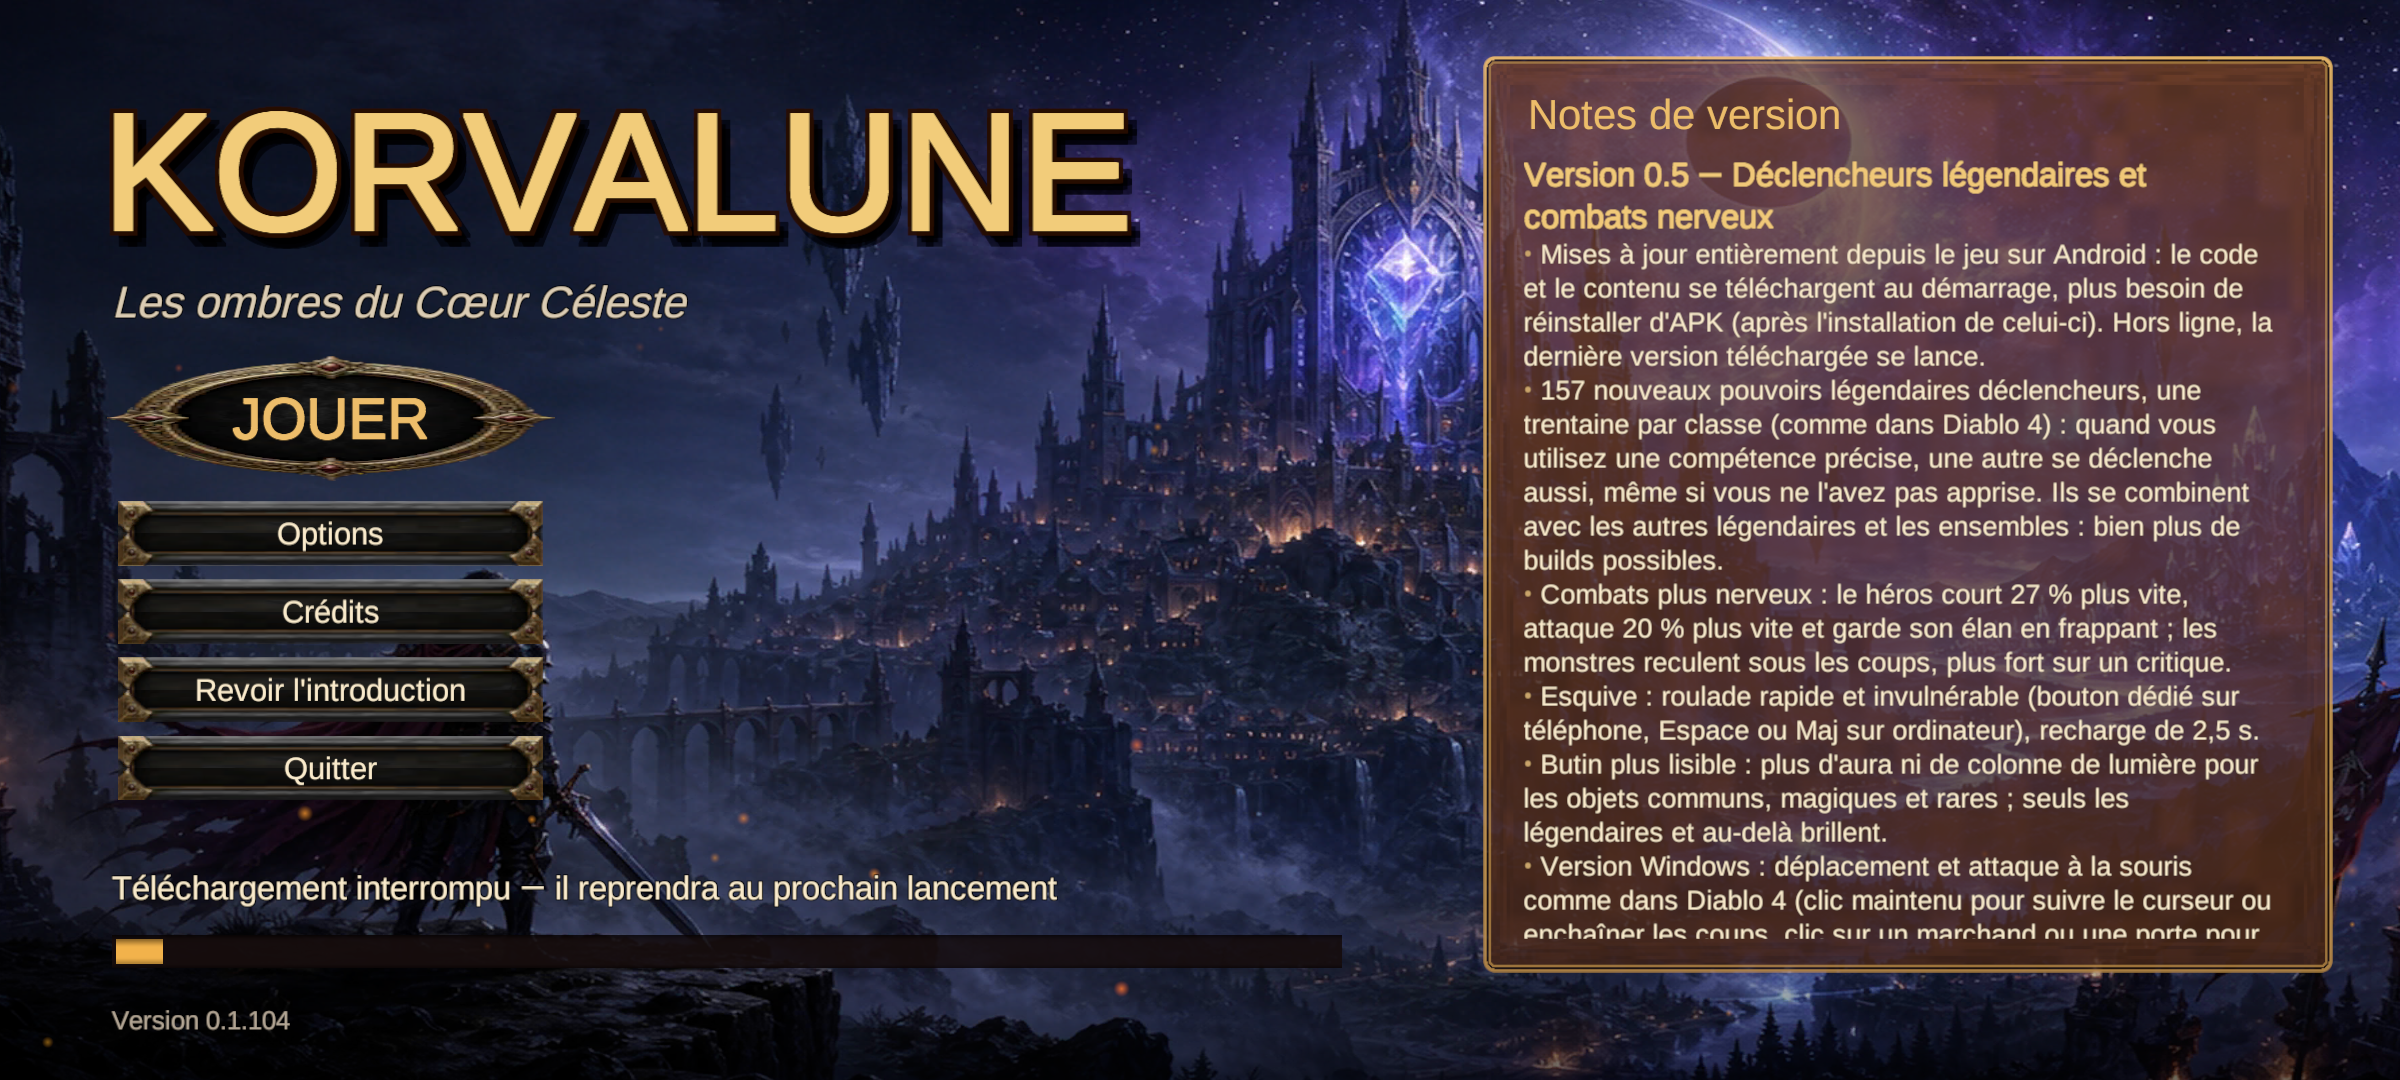
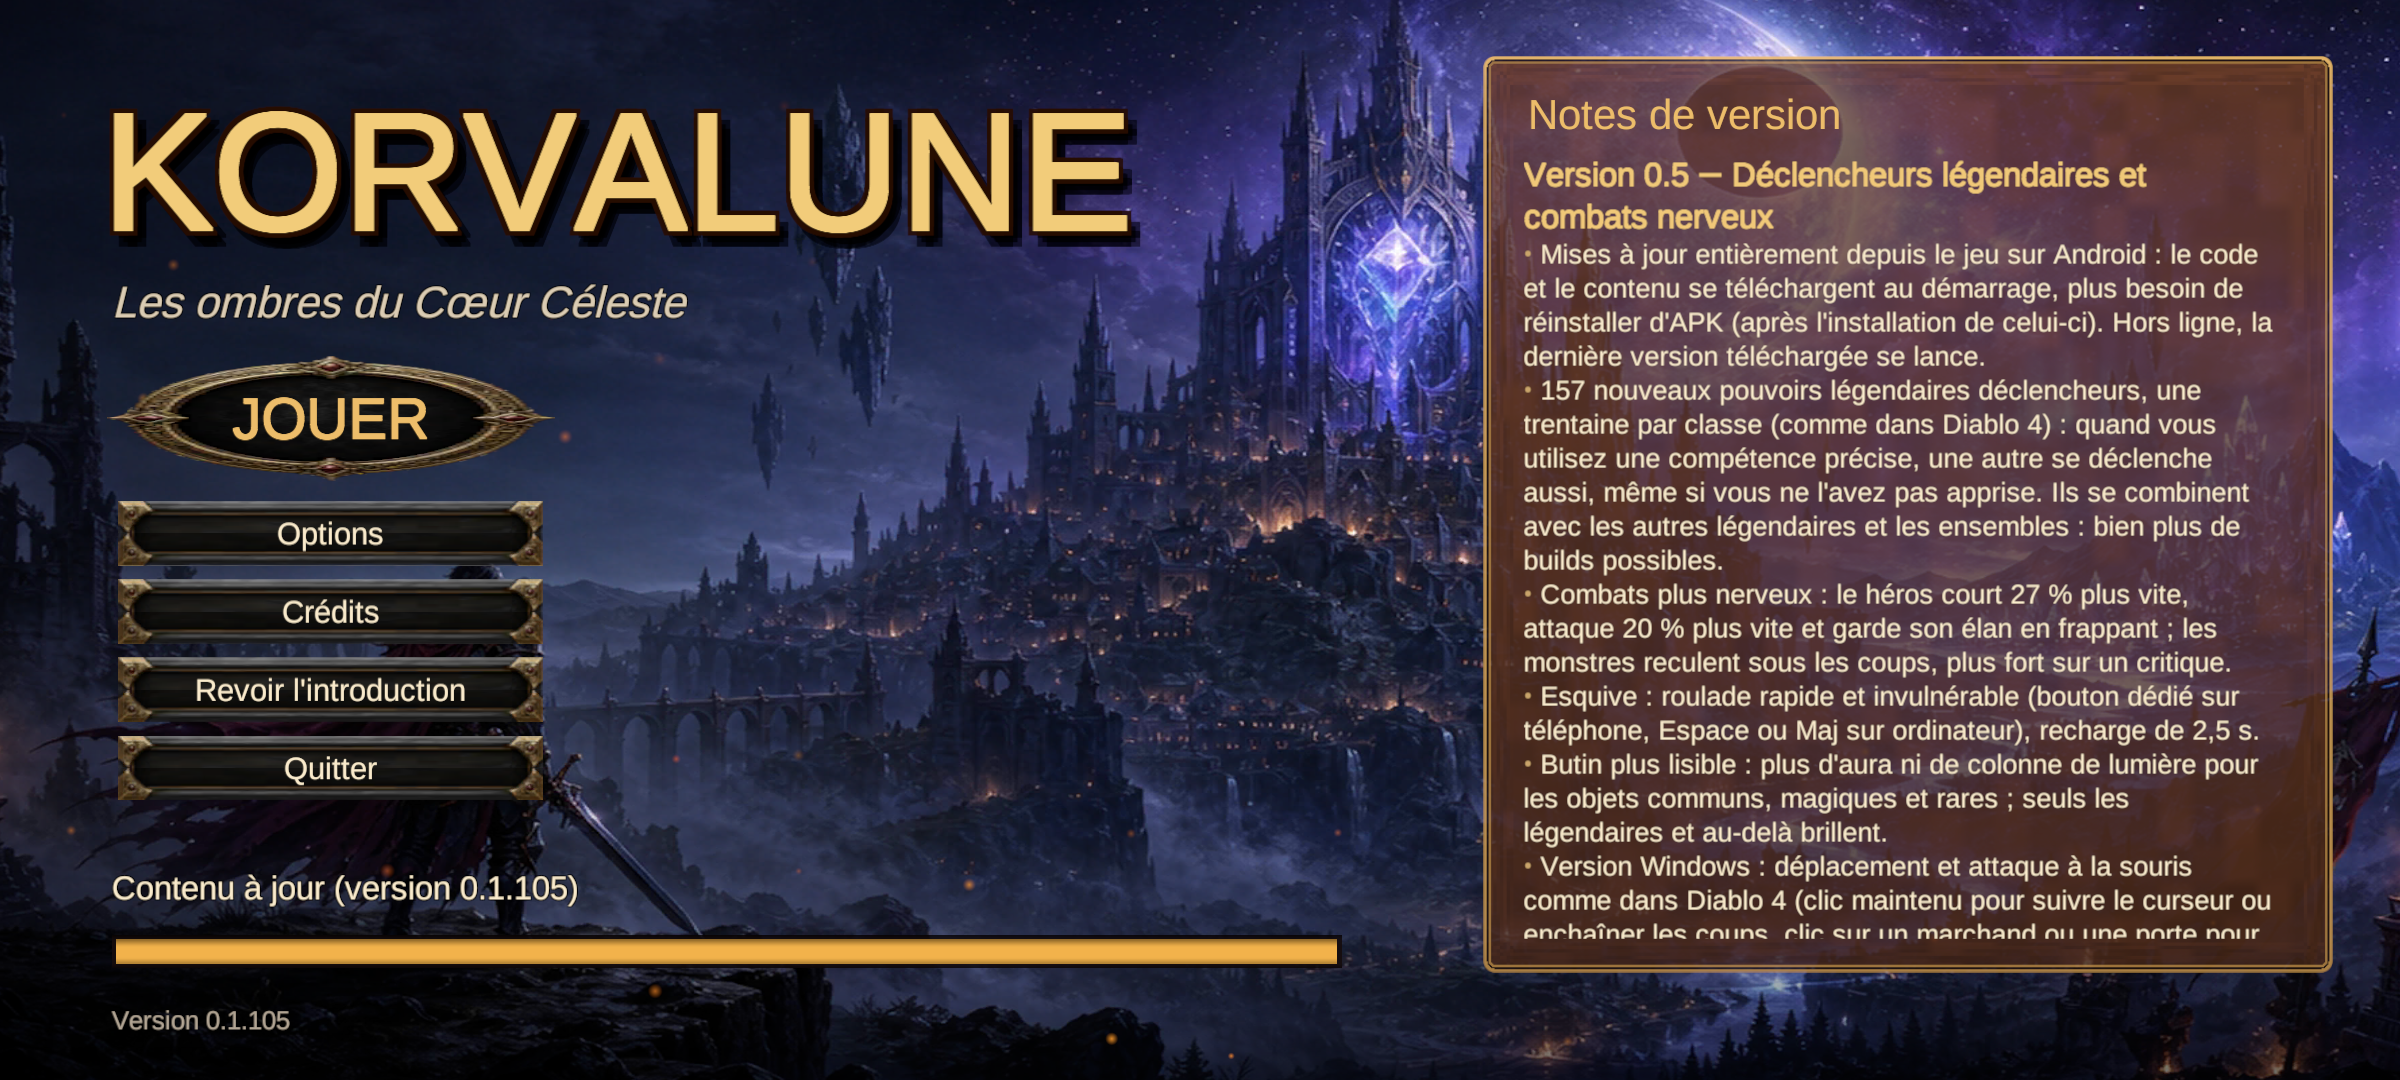
Android : APK construit et testé dans l'émulateur [skip ci]

diff --git a/ci-out/android/build.md b/ci-out/android/build.md
@@ -3,7 +3,7 @@
 - Scènes : Korvalune_Lanceur, Korvalune_Selection, CharacterCreator, Korvalune_Vallee, Korvalune_Crypte, Korvalune_Terriers, Korvalune_Eclipse, Korvalune_Breche, Korvalune_Foret, Korvalune_Desert, Korvalune_Pics, Korvalune_Cote, Korvalune_Marais, Korvalune_Toundra, Korvalune_Volcan, Korvalune_Canyon, Korvalune_Abime
 - Signature : clé Korvalune (mises à jour sans désinstaller)
 - Icône : Assets/Korvalune/Resources/UI/Icone.png
-- Contenu téléchargeable : 100 paquets, 722 Mo (release contenu-104)
+- Contenu téléchargeable : 100 paquets, 722 Mo (release contenu-105)
     - scenes : 146.4 Mo
     - art_catalog_models : 58.3 Mo
     - art_catalog_skins : 34.6 Mo
@@ -16,10 +16,10 @@
     - art_heroes_kaeldraven_f : 17.2 Mo
     - art_heroes_kaeldraven_m : 16.7 Mo
     - art_heroes_tharion_f : 16.7 Mo
-- HybridCLR : génération en 2.0 min
+- HybridCLR : génération en 1.8 min
 - Code mis à jour depuis le jeu : Korvalune.Runtime 664 Ko + 7 métadonnées (9.0 Mo), APK minimal 0
-- Résultat : **Succeeded** en 21.6 min, 0 erreur(s), 12 avertissement(s)
-- APK : 129.1 Mo, version 0.1.104
+- Résultat : **Succeeded** en 21.0 min, 0 erreur(s), 12 avertissement(s)
+- APK : 129.1 Mo, version 0.1.105
 
 ## Contenu empaqueté : 35 Mo
 - Texture2D : 23.0 Mo (295)
@@ -69,46 +69,46 @@
 
 ## Mémoire pendant la construction (dernières mesures)
 ```
-08:42:27 ram 6620/15983 swap 112/16383  4781304 Unity 477872 Unity.ILPP.Runn 
-08:42:32 ram 6616/15983 swap 112/16383  4781304 Unity 479368 Unity.ILPP.Runn 
-08:42:37 ram 6641/15983 swap 112/16383  4781304 Unity 480240 Unity.ILPP.Runn 
-08:42:42 ram 6875/15983 swap 112/16383  4781304 Unity 1124132 ld.lld 
-08:42:47 ram 7277/15983 swap 112/16383  4780956 Unity 2876756 ld.lld 
-08:42:52 ram 6722/15983 swap 132/16383  4780440 Unity 1733436 ld.lld 
-08:42:57 ram 6787/15983 swap 629/16383  4448244 Unity 1889776 ld.lld 
-08:43:02 ram 5772/15983 swap 1121/16383  4037260 Unity 2145052 ld.lld 
-08:43:07 ram 5554/15983 swap 1299/16383  3855460 Unity 2675464 ld.lld 
-08:43:13 ram 4631/15983 swap 1811/16383  3346828 Unity 340616 Unity.ILPP.Runn 
-08:43:18 ram 3986/15983 swap 2387/16383  2750116 Unity 345596 Unity.ILPP.Runn 
-08:43:23 ram 3544/15983 swap 2872/16383  2261168 Unity 347256 Unity.ILPP.Runn 
-08:43:28 ram 3250/15983 swap 3070/16383  2062992 Unity 349224 Unity.ILPP.Runn 
-08:43:33 ram 3566/15983 swap 3064/16383  2082632 Unity 349288 Unity.ILPP.Runn 
-08:43:38 ram 3681/15983 swap 3064/16383  2082808 Unity 349380 Unity.ILPP.Runn 
-08:43:43 ram 3693/15983 swap 3064/16383  2082948 Unity 351492 Unity.ILPP.Runn 
-08:43:48 ram 3695/15983 swap 3314/16383  1836224 Unity 562188 java 
-08:43:53 ram 3402/15983 swap 3589/16383  1554208 Unity 589380 java 
-08:43:58 ram 3534/15983 swap 3669/16383  1466436 Unity 813652 java 
-08:44:03 ram 3554/15983 swap 4167/16383  1071652 java 1064988 Unity 
-08:44:08 ram 3246/15983 swap 4387/16383  1107036 java 839192 Unity 
-08:44:13 ram 3162/15983 swap 4504/16383  1164432 java 735832 Unity 
-08:44:18 ram 3087/15983 swap 4612/16383  1232100 java 693996 Unity 
-08:44:23 ram 3077/15983 swap 4612/16383  1252168 java 694288 Unity 
-08:44:28 ram 3176/15983 swap 4645/16383  1420164 java 671508 Unity 
-08:44:33 ram 3401/15983 swap 4645/16383  1434548 java 671664 Unity 
-08:44:38 ram 3404/15983 swap 4645/16383  1469244 java 671832 Unity 
-08:44:43 ram 3277/15983 swap 4645/16383  1474284 java 671800 Unity 
-08:44:48 ram 3330/15983 swap 4645/16383  1534992 java 671984 Unity 
-08:44:54 ram 3474/15983 swap 4662/16383  1655188 java 671764 Unity 
-08:44:59 ram 3601/15983 swap 4666/16383  1789268 java 671752 Unity 
-08:45:04 ram 3474/15983 swap 4673/16383  1681428 java 677732 Unity 
-08:45:09 ram 3595/15983 swap 4531/16383  1681428 java 849256 Unity 
-08:45:14 ram 3790/15983 swap 4471/16383  1681428 java 975088 Unity 
-08:45:19 ram 3947/15983 swap 4476/16383  1681428 java 1142720 Unity 
-08:45:24 ram 4066/15983 swap 4476/16383  1681428 java 1283380 Unity 
-08:45:29 ram 2421/15983 swap 3974/16383  1294308 Unity 130512 provjobd1894936 
-08:45:34 ram 2372/15983 swap 3896/16383  1305124 Unity 130512 provjobd1894936 
-08:45:39 ram 1151/15983 swap 154/16383  131748 provjobd1894936 119912 MainThread 
-08:45:44 ram 1217/15983 swap 154/16383  129624 provjobd1894936 124552 Unity.Licensing 
+10:09:23 ram 6729/15983 swap 61/16383  4709752 Unity 681932 Unity.ILPP.Runn 
+10:09:28 ram 6718/15983 swap 61/16383  4709756 Unity 683396 Unity.ILPP.Runn 
+10:09:33 ram 6742/15983 swap 61/16383  4709756 Unity 683764 Unity.ILPP.Runn 
+10:09:38 ram 6856/15983 swap 61/16383  4709756 Unity 685468 Unity.ILPP.Runn 
+10:09:43 ram 6879/15983 swap 61/16383  4709756 Unity 686132 Unity.ILPP.Runn 
+10:09:48 ram 6762/15983 swap 61/16383  4709756 Unity 687460 Unity.ILPP.Runn 
+10:09:53 ram 6845/15983 swap 61/16383  4709756 Unity 688524 Unity.ILPP.Runn 
+10:09:58 ram 6939/15983 swap 61/16383  4709756 Unity 689300 Unity.ILPP.Runn 
+10:10:03 ram 6743/15983 swap 61/16383  4709760 Unity 691180 Unity.ILPP.Runn 
+10:10:08 ram 6808/15983 swap 61/16383  4709760 Unity 691980 Unity.ILPP.Runn 
+10:10:13 ram 7051/15983 swap 61/16383  4709744 Unity 693620 Unity.ILPP.Runn 
+10:10:18 ram 6717/15983 swap 61/16383  4709748 Unity 695788 Unity.ILPP.Runn 
+10:10:23 ram 6907/15983 swap 61/16383  4709748 Unity 1206624 ld.lld 
+10:10:28 ram 6898/15983 swap 61/16383  4709740 Unity 1907568 ld.lld 
+10:10:33 ram 6789/15983 swap 171/16383  4662432 Unity 2243356 ld.lld 
+10:10:38 ram 6648/15983 swap 327/16383  4566428 Unity 2558392 ld.lld 
+10:10:44 ram 5752/15983 swap 756/16383  4296976 Unity 527220 Unity.ILPP.Runn 
+10:10:49 ram 5288/15983 swap 1249/16383  3805348 Unity 530528 Unity.ILPP.Runn 
+10:10:54 ram 4840/15983 swap 1683/16383  3364324 Unity 530496 Unity.ILPP.Runn 
+10:10:59 ram 4850/15983 swap 1779/16383  3267236 Unity 531680 Unity.ILPP.Runn 
+10:11:04 ram 5050/15983 swap 1779/16383  3267212 Unity 531704 Unity.ILPP.Runn 
+10:11:09 ram 5076/15983 swap 1779/16383  3267196 Unity 532776 Unity.ILPP.Runn 
+10:11:14 ram 5173/15983 swap 1779/16383  3267088 Unity 534304 Unity.ILPP.Runn 
+10:11:19 ram 5380/15983 swap 1874/16383  3169080 Unity 726784 java 
+10:11:24 ram 5242/15983 swap 1874/16383  3169092 Unity 579692 java 
+10:11:29 ram 5244/15983 swap 1970/16383  3071636 Unity 667784 java 
+10:11:34 ram 5691/15983 swap 2150/16383  2935768 Unity 1363156 java 
+10:11:39 ram 6048/15983 swap 2159/16383  2935688 Unity 1514920 java 
+10:11:44 ram 6099/15983 swap 2161/16383  2935692 Unity 1718576 java 
+10:11:49 ram 6100/15983 swap 2161/16383  2935700 Unity 1770748 java 
+10:11:54 ram 6116/15983 swap 2161/16383  2935708 Unity 1793520 java 
+10:11:59 ram 6175/15983 swap 2164/16383  2935712 Unity 1865776 java 
+10:12:04 ram 6188/15983 swap 2173/16383  2935236 Unity 1877344 java 
+10:12:09 ram 6232/15983 swap 2179/16383  2935180 Unity 1900228 java 
+10:12:14 ram 6257/15983 swap 2187/16383  2934668 Unity 1924992 java 
+10:12:19 ram 6360/15983 swap 2201/16383  2933984 Unity 1967444 java 
+10:12:24 ram 6532/15983 swap 2216/16383  2933956 Unity 2155212 java 
+10:12:29 ram 6454/15983 swap 2218/16383  2936480 Unity 2157924 java 
+10:12:34 ram 4430/15983 swap 2131/16383  2862984 Unity 665832 Unity.ILPP.Runn 
+10:12:39 ram 1146/15983 swap 154/16383  134164 provjobd5540308 109116 Runner.Worker 
 ```
 ## Noyau (OOM)
 ```

diff --git a/ci-out/android/test.md b/ci-out/android/test.md
@@ -12,12 +12,22 @@
 - Activité : com.korvalune.game/com.unity3d.player.UnityPlayerGameActivity
     [Korvalune] partie automatique : activée
     [Korvalune][test] lanceur prêt : on joue
-    [Korvalune][test] chargement de la scène « Korvalune_Selection » avec Testeur
-    [Korvalune][test] ÉCHEC : scène introuvable
+    [Korvalune][test] chargement de la scène « Korvalune_Vallee » avec Testeur
+    [Korvalune][test] chargement 90 %
+    [Korvalune][test] chargement 90 %
+    [Korvalune][test] chargement 90 %
+    [Korvalune][test] chargement 90 %
+    [Korvalune][test] chargement 90 %
+    [Korvalune][test] chargement 90 %
+    [Korvalune][test] chargement 90 %
+    [Korvalune][test] chargement 90 %
+    [Korvalune][test] chargement 90 %
+    [Korvalune][test] chargement 90 %
+    [Korvalune][test] chargement 90 %
+    [Korvalune][test] chargement 90 %
+    [Korvalune][test] chargement 90 %
 - ⚠ Partie automatique inachevée (voir partie.txt)
 - ✅ Aucun plantage dans le journal
-- Erreurs Unity dans le journal : 2
-    11-07 08:54:09.093  6271  6293 E Unity   : Scene 'Korvalune_Selection' couldn't be loaded because it has not been added to the active build profile or shared scene list or the AssetBundle has not been loaded.
-    11-07 08:54:09.093  6271  6293 E Unity   : To add a scene to the active build profile or shared scene list use the menu File->Build Profiles
+- Erreurs Unity dans le journal : 0
 
 **RÉSULTAT : OK**
